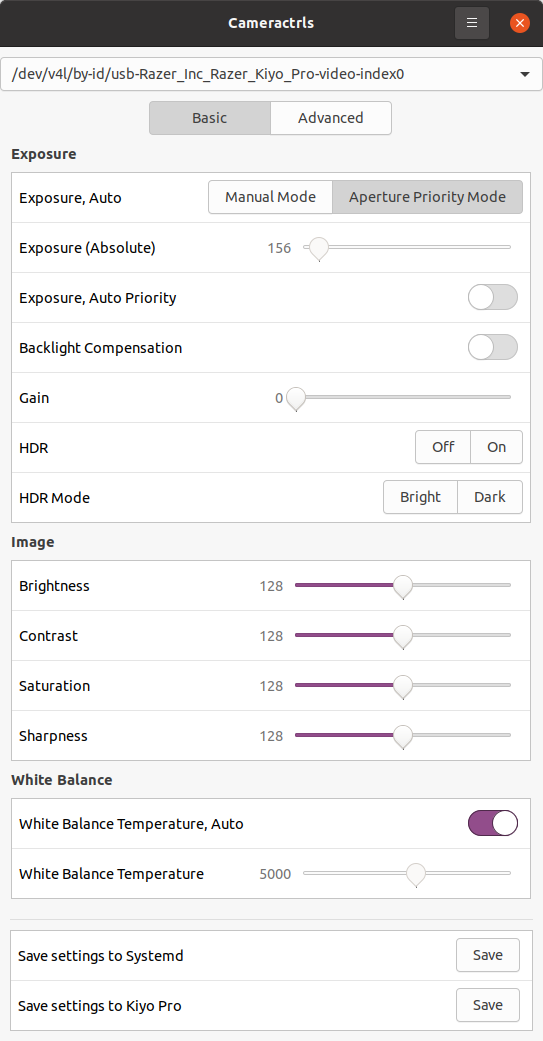
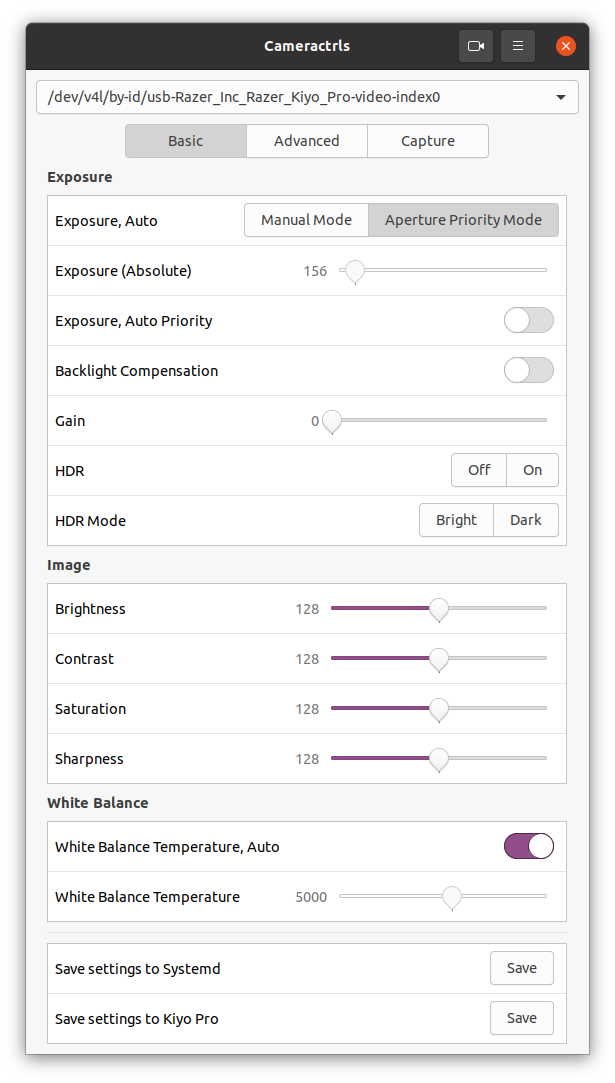
v0.4.0

Changed region(s): [[0.0, 0.0, 1.0, 0.9837]]

diff --git a/cameractrls.py b/cameractrls.py
@@ -4,7 +4,7 @@ import ctypes, logging, os.path, getopt, sys, subprocess
 from fcntl import ioctl
 
 ghurl = 'https://github.com/soyersoyer/cameractrls'
-version = 'v0.3.1'
+version = 'v0.4.0'
 
 
 v4ldirs = {

diff --git a/CHANGELOG.md b/CHANGELOG.md
@@ -1,5 +1,16 @@
 # Changelog
 
+## [0.4.0] - 2022-06-22
+
+### Added
+- Ability to view the camera (only in YUYV or NV12 format yet)
+- Pixelformat, resolution, fps controls
+
+### Changed
+- LogitechCtrls: removed the (not) default values
+- SystemdSaver: don't save the inactive controls and save the controls without default values too.
+- Adding gamma to Basic.Image
+
 ## [0.3.1] - 2022-06-17
 
 ### Changed
